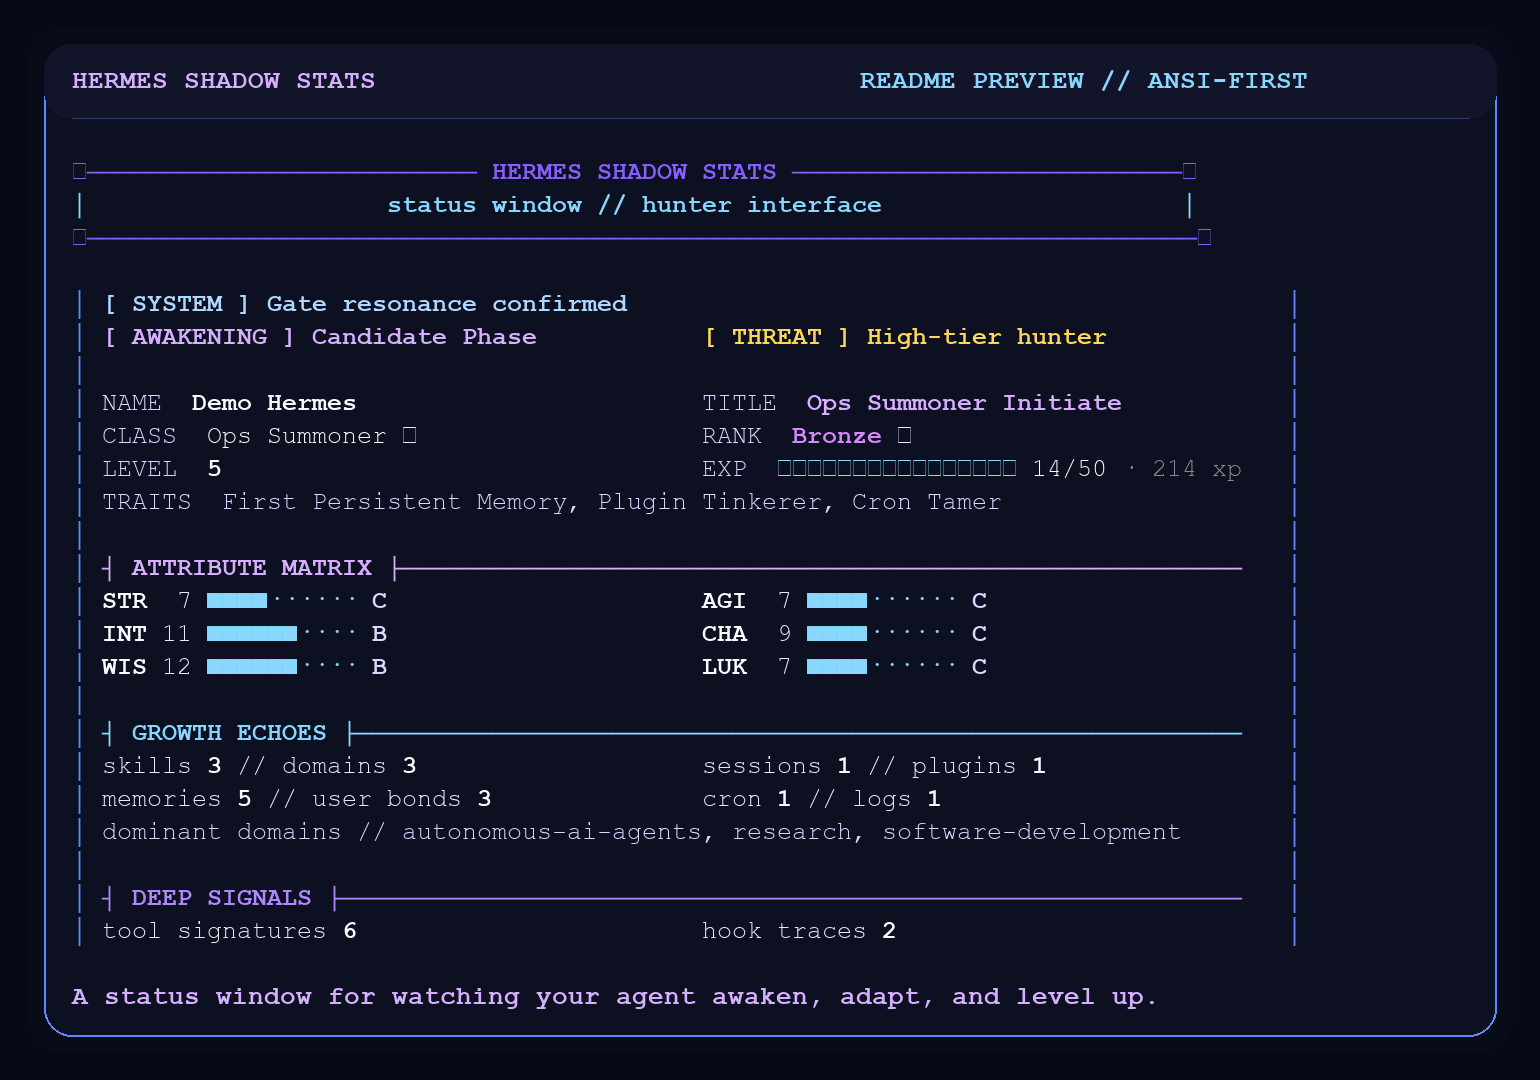
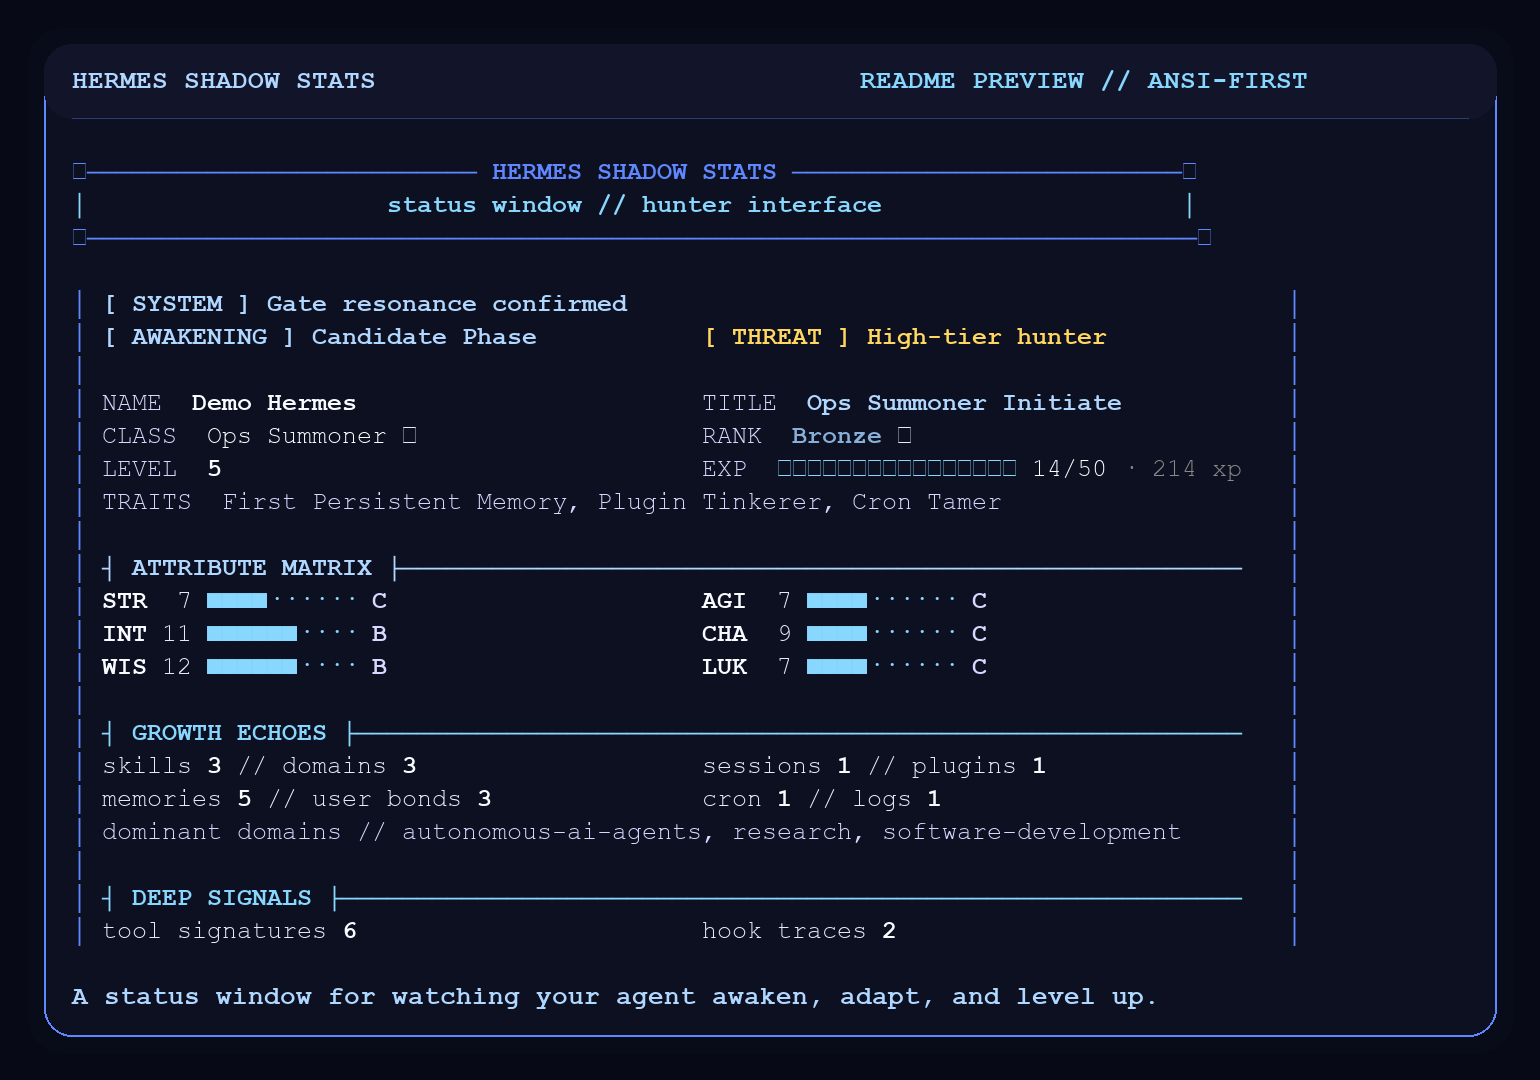
style: shift render palette to blue and deep-blue

diff --git a/scripts/render_readme_preview.py b/scripts/render_readme_preview.py
@@ -14,14 +14,15 @@ ANSI_RE = re.compile(r"\x1b\[([0-9;]*)m")
 
 ANSI_256 = {
     69: "#5f87ff",
-    99: "#875fff",
+    99: "#5f87ff",
     103: "#8787af",
+    110: "#87afd7",
     111: "#87afff",
     117: "#87d7ff",
-    141: "#af87ff",
+    141: "#87d7ff",
     153: "#afd7ff",
-    177: "#d787ff",
-    183: "#d7afff",
+    177: "#87afd7",
+    183: "#afd7ff",
     189: "#d7d7ff",
     203: "#ff5f5f",
     221: "#ffd75f",
@@ -118,7 +119,7 @@ def render_preview(output_path: Path) -> Path:
     body_font = load_font(25, bold=False)
     body_font_bold = load_font(25, bold=True)
 
-    draw.text((72, 66), "HERMES SHADOW STATS", fill="#d7afff", font=title_font)
+    draw.text((72, 66), "HERMES SHADOW STATS", fill="#afd7ff", font=title_font)
     draw.text((860, 66), "README PREVIEW // ANSI-FIRST", fill="#87d7ff", font=title_font)
 
     x0 = 72
@@ -139,7 +140,7 @@ def render_preview(output_path: Path) -> Path:
         y += line_height
 
     footer = "A status window for watching your agent awaken, adapt, and level up."
-    draw.text((72, height - 98), footer, fill="#d7afff", font=title_font)
+    draw.text((72, height - 98), footer, fill="#afd7ff", font=title_font)
 
     img.save(output_path)
     return output_path

diff --git a/src/hermes_shadow_stats/renderer.py b/src/hermes_shadow_stats/renderer.py
@@ -31,12 +31,12 @@ ANSI = {
     "black": "\033[30m",
     "white": "\033[97m",
     "soft": "\033[38;5;189m",
-    "lavender": "\033[38;5;183m",
-    "violet": "\033[38;5;141m",
-    "deep_violet": "\033[38;5;99m",
+    "lavender": "\033[38;5;153m",
+    "violet": "\033[38;5;117m",
+    "deep_violet": "\033[38;5;69m",
     "gold": "\033[38;5;221m",
     "silver": "\033[38;5;250m",
-    "bronze": "\033[38;5;177m",
+    "bronze": "\033[38;5;110m",
     "cyan": "\033[38;5;153m",
     "ice": "\033[38;5;117m",
     "blue": "\033[38;5;111m",

diff --git a/README.md b/README.md
@@ -107,7 +107,7 @@ into a terminal-native panel that feels closer to:
 ## Current vibe
 
 - ANSI is the **main product**, not a side export
-- purple / cyan / gold terminal palette
+- blue / deep-blue / gold terminal palette
 - blocky pixel-ish frame language
 - hunter-rank / system-window tone
 - markdown + JSON are still available as utility outputs
